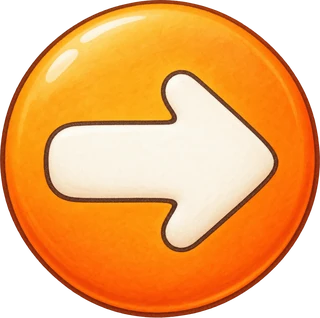
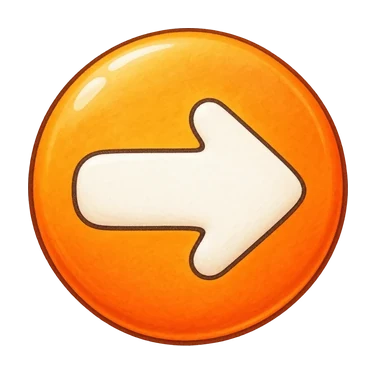
The white edge on everything touchable: the "next" button, cards, any group of stickers
The illustration's "next" button had no edge although it is always
something to touch; it now wears the white edge for good (its picture
padded so the edge fits, drawn at the same size). The edge is lit on any
handle that is a target, not only a single sticker: a memory card, a
portrait card's back, a heap - every sticker inside gets it. The portrait
cards' back went through a plain material and lost its edge with the
rim-free pictures; it is drawn as a sticker now.

diff --git a/game/engine/mechaniki7.js b/game/engine/mechaniki7.js
@@ -4,6 +4,7 @@
 // mata_peczki; the cards are the memory game's (menu/karta, karta_rewers) with the puppets rendered on them.
 
 import * as THREE from "three";
+import { materialNaklejki } from "./naklejka.js";
 import { texture } from "./scene.js";
 import { CYFRY } from "./liczby.js";
 import { Lalka } from "./lalka.js";
@@ -214,7 +215,7 @@ export async function portrety(S, { postacie, ubrania = {}, widok = "przod", kad
     const papier = new THREE.Mesh(new THREE.PlaneGeometry(szer, wys), mat({ map: kartaT, alphaTest: 0.05 })); papier.renderOrder = 10; lico.add(papier);
     const plan = (t) => { const m = new THREE.Mesh(new THREE.PlaneGeometry(szer * 0.88, szer * 0.88 / 0.73), materialPortretu(t)); m.position.z = 0.01; m.renderOrder = 10.5; return m; };
     const widokM = plan(obrazy[i]), przodM = widok === "przod" ? widokM : plan(przody[i]); lico.add(widokM); if (przodM !== widokM) { przodM.visible = false; lico.add(przodM); }
-    const rew = new THREE.Mesh(new THREE.PlaneGeometry(wys * 1.0, wys * 1.0), mat({ map: rewersT, alphaTest: 0.05 })); rew.renderOrder = 10; tyl.add(rew);
+    const rew = new THREE.Mesh(new THREE.PlaneGeometry(wys * 1.0, wys * 1.0), materialNaklejki(rewersT));   // a card's back: a sticker - its edge while it waits for a touch rew.renderOrder = 10; tyl.add(rew);
     const h = uchwyt(S, grp, { name: `portret_${kto}`, kto, otwarta: true, dobry: false });
     const obrot = async (zmien) => {
       await S.tween(FAST ? 0.04 : 0.16, (s) => { grp.scale.x = Math.max(0.01, 1 - s); });

diff --git a/game/engine/ilustracje.js b/game/engine/ilustracje.js
@@ -8,6 +8,7 @@
 // h.calosc() shows the whole page.
 
 import * as THREE from "three";
+import { materialNaklejki } from "./naklejka.js";
 import { texture } from "./scene.js";
 
 const FAST = new URLSearchParams(location.search).has("szybko");
@@ -165,8 +166,10 @@ export async function ilustracja(S, nazwa, { ruch = "najazd", czekaj = false, mo
   const naDalej = async () => {
     const tex = await texture("/game/assets/objects/przycisk_dalej.webp").catch(() => null);
     if (!tex || zniknela) return;
-    const r = widac().h * 0.075;
-    dalej = new THREE.Mesh(new THREE.PlaneGeometry(2 * r, 2 * r * tex.image.height / tex.image.width), mat({ map: tex }));
+    const r = widac().h * 0.075 * 1.18;                                            // the picture has room round it for the edge
+    // a thing to touch: the white edge of every target (engine/naklejka.js), lit for good
+    const mDalej = materialNaklejki(tex); mDalej.depthTest = false; mDalej.userData.naklejka.uObw.value = 1; mDalej.userData.naklejka.staly = true; mDalej.userData.naklejka.uR.value = 0.07;
+    dalej = new THREE.Mesh(new THREE.PlaneGeometry(2 * r, 2 * r * tex.image.height / tex.image.width), mDalej);
     dalej.renderOrder = 7; dalej.userData = { y: -Hc / 2 - r * 0.15, r, t0: performance.now() };
     dalej.position.set(0, dalej.userData.y, 0.5); dalej.scale.setScalar(0.001); karta.add(dalej);
     S.sfx.graj("pop");

diff --git a/game/engine/naklejka.js b/game/engine/naklejka.js
@@ -44,10 +44,10 @@ void main() {`)
 // sticker the handle holds: a heap is one handle of several stickers, and each of them needs its own edge
 export function krokNaklejek(objects, czeka, dt) {
   for (const h of objects) {
-    if (!h.icon || !h.mesh) continue;
+    if (!h.mesh?.traverse) continue;                                // a sticker, or a group holding stickers (a card, a heap)
     let us = h.naklejkiU;
     if (!us || h.naklejkiN !== h.mesh.children.length) {             // gathered again when the group's children change
-      us = []; h.mesh.traverse((o) => { const u = o.material?.userData?.naklejka; if (u) us.push(u); });
+      us = []; h.mesh.traverse((o) => { const u = o.material?.userData?.naklejka; if (u && !u.staly) us.push(u); });   // `staly`: set by its owner
       h.naklejkiU = us; h.naklejkiN = h.mesh.children.length;
     }
     if (!us.length) continue;

diff --git a/docs/MEMORY.md b/docs/MEMORY.md
@@ -268,7 +268,10 @@ A sticker tapped while nothing waits nods a little and the characters glance at 
 cut into the story). `game/assets/objects/naklejki.json` lists the stickers with this look; interface pictures kept
 their baked edge (stage signs `znak_*`, `pora_*`, `ruch_*`, `strzalka`, `przycisk_muzyki`) and so did ten edited after
 the cut (`gwiazdka`, `swietlik`, `ruch_klask`, `wanna`, six colouring signs). The album draws its own edge in CSS
-(`.wycinek`). The manager's sticker pages show them without the edge. Fox tells the rule once, in the first lesson
+(`.wycinek`). The manager's sticker pages show them without the edge. The rule holds for everything touchable, not only stickers (the user, 2026-10-30): the illustration's
+"next" button wears the edge for good; a group holding stickers (a memory card, a portrait card's back, a heap) lights
+the edge of each while the group is a target. A mechanic that draws a sticker picture with its own material must use
+`materialNaklejki` or the picture is left with no edge at all. Fox tells the rule once, in the first lesson
 (one_many, before the first task): the edge lit by hand on the pumpkin and the nuts, then put out (`ctx.obwodka`).
 
 **Sound and music**
